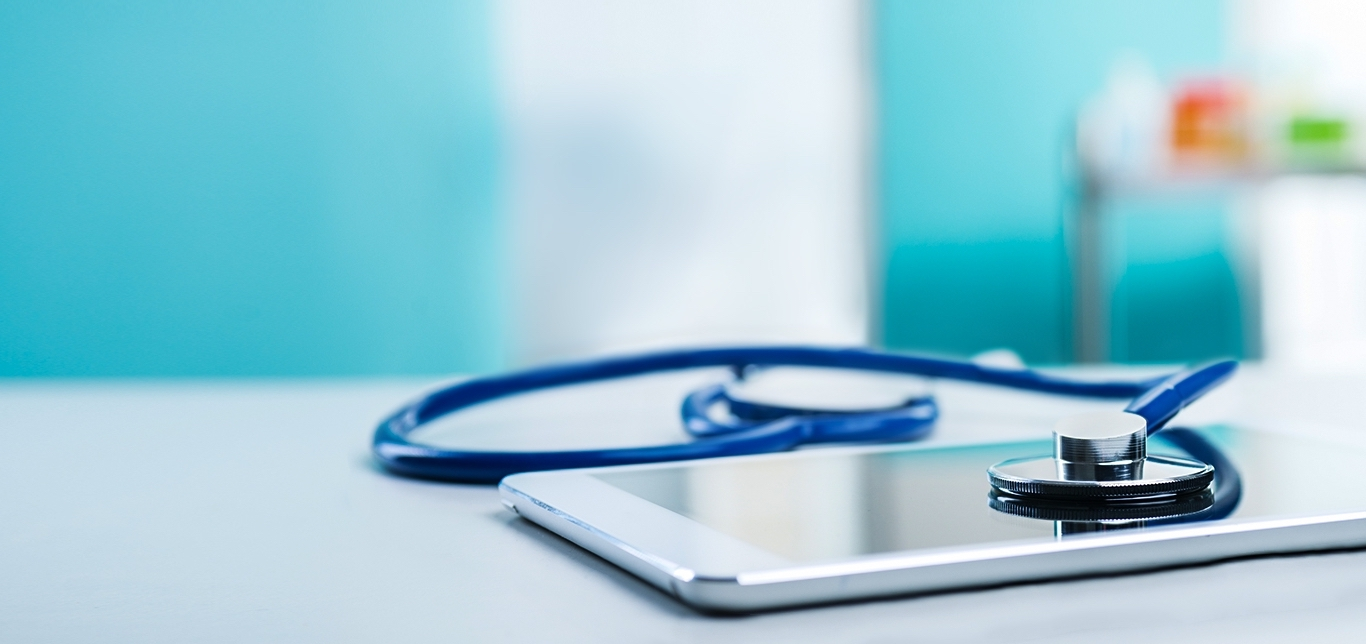
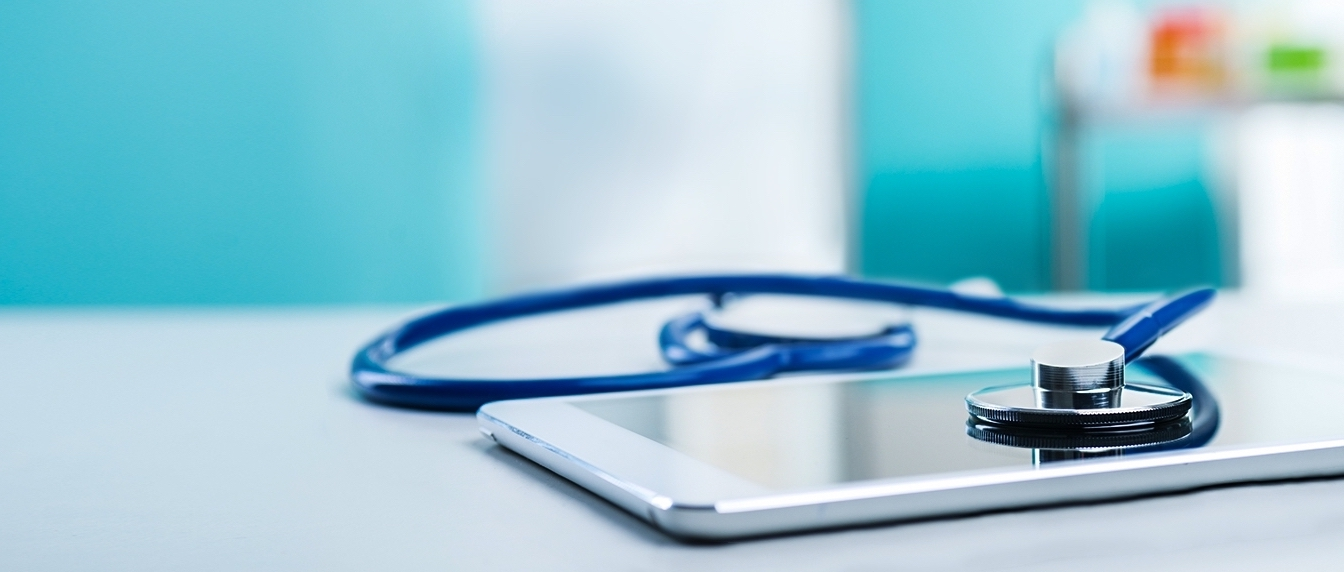
pretty pretty parallax

diff --git a/ProjectApp/templates/index.html b/ProjectApp/templates/index.html
@@ -30,28 +30,28 @@
 <!--INDEX PAGE-->
 <body>
     <!--NAVIGATION BAR TO BE USED ACROSS ALL PAGES-->
-    <nav class="navbar navbar-light" style="background-color:rgb(7, 18, 82)">
+    <nav class="navbar navbar-light">
             <div class="container">
-                    <button type="button" class="navbar-toggle" data-toggle="collapse" data-target="#myNavbar" aria-expanded="false">
-                        <span class="sr-only">Toggle navigation</span>
-                        <span class="icon-bar"></span>
-                        <span class="icon-bar"></span>
-                        <span class="icon-bar"></span>
-                    </button>
-                    <a class="navbar-brand" href="index.html"style="color:white">Health Data Analyzer</a>
-                <div class="collapse navbar-collapse" id="myNavbar">
-                    <ul class="nav navbar-nav navbar-right">
-                        </li>
-                        <li><a href="#" style="color:white">Analysis</a></li>
-                        <li><a href="#"style="color:white">Team</a></li>
-                        <li><a href="#"style="color:white">Github</a></li>
+                <button type="button" class="navbar-toggle" data-toggle="collapse" data-target="#myNavbar" aria-expanded="false">
+                    <span class="sr-only">Toggle navigation</span>
+                    <span class="icon-bar"></span>
+                    <span class="icon-bar"></span>
+                    <span class="icon-bar"></span>
+                </button>
+            <a class="navbar-brand" href="index.html"style="color:white">Health Data Analyzer</a>
+            <div class="collapse navbar-collapse" id="myNavbar">
+                <ul class="nav navbar-nav navbar-right"></li>
+                    <li><a href="#" style="color:white">Analysis</a></li>
+                    <li><a href="#"style="color:white">Team</a></li>
+                    <li><a href="#"style="color:white">Github</a></li>
                     </ul>
-                </div>
+            </div>
             </div>
         </nav>
+
         <div class="hero text-center">
-            <h1>test</h1>
-            <p>test</p>
+            <h1>Healthcare Data Analyzer</h1>
+            <p>Leading Causes of Death in the US</p>
         </div>
 
     <!--ROW 1: SUMMARY-->    

diff --git a/ProjectApp/static/css/style.css b/ProjectApp/static/css/style.css
@@ -1,4 +1,5 @@
-STYLING FOR IMAGES
+/* STYLING FOR IMAGES */
+
 .imgbox {
  display: grid;
  height: 100%; 
@@ -19,8 +20,8 @@ img.float_text_left {
   float: left;
   clear: none;
   margin: 15px;
-  max-width: 10%;
-  max-height: 10%;
+  max-width: 5%;
+  max-height: 5%;
   display: inline-block;
   position: relative;
 }
@@ -46,10 +47,12 @@ body {
 .footer
 {
     background-color:rgb(7, 18, 82);
-    position: relative;
+    position: absolute;
+    left: 0;
     width: 100%;
     clear:both;
 }
+
 /* STYLING FOR CONTAINERS */
 .col-md-12 {
   background-color: white;
@@ -73,8 +76,10 @@ ul.nav a:hover {
   margin-left:auto;
   margin-right:10px;
 }
-.navbar, .navbar-nav, .navbar-header {
-  background-color:rgb(0, 16, 104)
+.navbar, .navbar-nav, .navbar-header, .navbar-light {
+  background-color:rgb(7, 18, 82);
+  padding-bottom:0;
+  margin-bottom:0;
 }
 .icon-bar {
   background-color:white;
@@ -97,7 +102,7 @@ ul.nav a:hover {
 }
 
 .hero h1 {
-  margin-top: 200px;
+  margin-top: 100px;
   font-size: 0.1rem;
   animation: title 1.2s forwards linear;
 }
@@ -107,4 +112,39 @@ ul.nav a:hover {
   opacity: 0;
   animation: subtitle 1.2s forwards linear;
   animation-delay: 1.2s;
+}
+
+/* media queries & keygrame Aninations ?? */
+
+/* keyframe animations which will be used to animate the title */
+@keyframes title {
+  from {
+    opacity: 0;
+  }
+
+  to {
+    font-size: 7.5rem;
+    opacity: 1;
+  }
+}
+
+@keyframes smaller-title {
+  from {
+    opacity: 0;
+  }
+
+  to {
+    font-size: 5.5rem;
+    opacity: 1;
+  }
+}
+
+@keyframes subtitle {
+  from {
+    opacity: 0;
+  }
+
+  to {
+    opacity: 1;
+  }
 }
